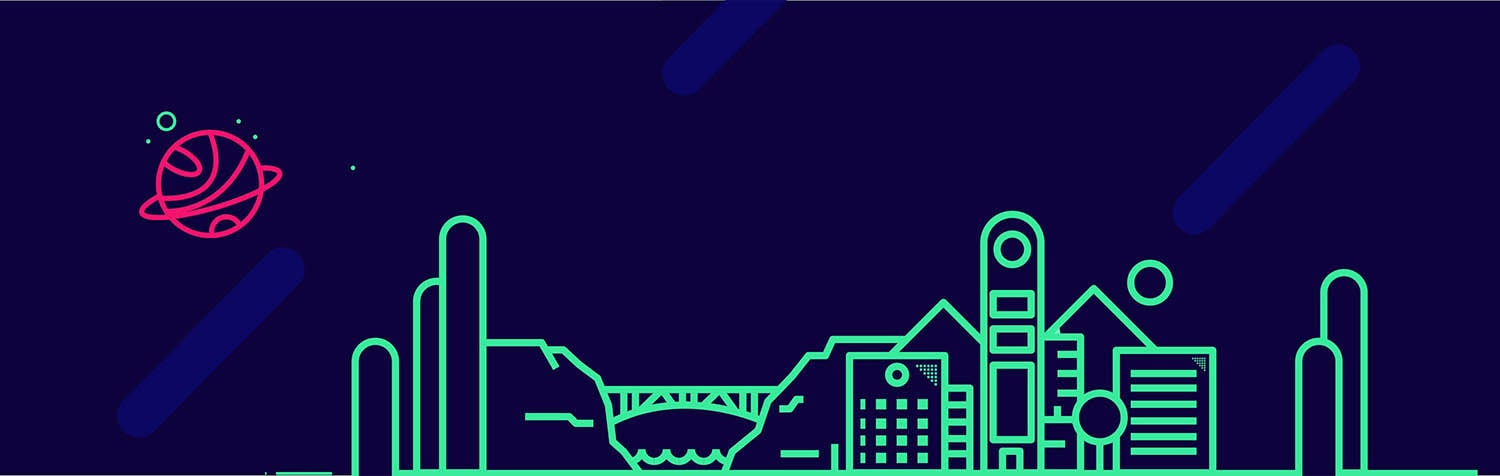
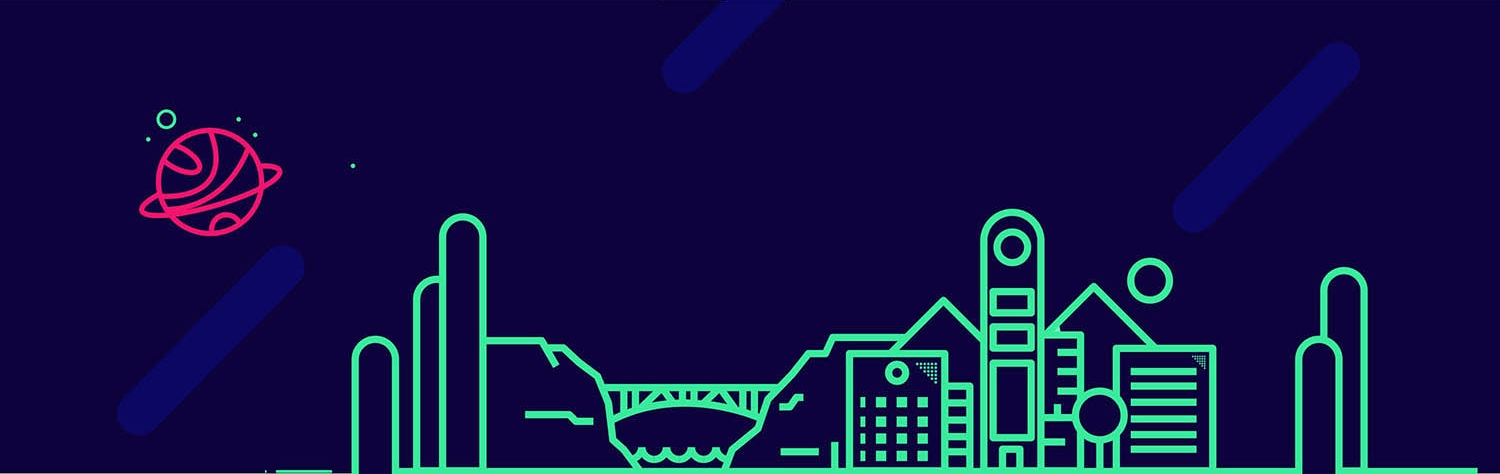
add remaining animations

diff --git a/app/retail/templates/index.html b/app/retail/templates/index.html
@@ -84,14 +84,20 @@
                           <path d="M49,0 L0,28.24968 L0,84.7498933 L49,113 L98,84.7498933 L98,28.24968 L49,0 Z M1.4429862,83.9182674 L1.4429862,29.0813059 L49,1.66367855 L96.5574411,29.0813059 L96.5574411,83.9182674 L49,111.336321 L1.4429862,83.9182674 Z" id="Fill-1" stroke="#05B66A" stroke-width="2" fill="#49B977"></path>
                           <polygon id="Fill-2" stroke="#EBC629" stroke-width="2" fill="#EBC629" points="7 31.7726502 7 58 8.23706649 58 8.23706649 32.472727 49 9.39973162 89.7629335 32.472727 89.7629335 37.6348967 91 37.6348967 91 31.7726502 49 8"></polygon>
                           <polygon id="Fill-3" stroke="#EBC629" stroke-width="2" fill="#EBC629" points="88.778412 78.6333954 48.5255139 101.606386 15.442326 82.7251666 13 82.7251666 48.5255139 103 90 79.3299922 90 54 88.778412 54"></polygon>
-                          <path d="M50,78 C49.448,78 49,77.552 49,77 L49,33 C49,32.448 49.448,32 50,32 C50.552,32 51,32.448 51,33 L51,77 C51,77.552 50.552,78 50,78" id="Fill-4232" fill="#000000"></path>
                           <path d="M72,56 L28,56 C27.448,56 27,55.552 27,55 C27,54.448 27.448,54 28,54 L72,54 C72.552,54 73,54.448 73,55 C73,55.552 72.552,56 72,56" id="Fill-4233" fill="#000000"></path>
                           <path d="M68,44 L32,44 C31.448,44 31,43.552 31,43 C31,42.448 31.448,42 32,42 L68,42 C68.552,42 69,42.448 69,43 C69,43.552 68.552,44 68,44" id="Fill-4234" fill="#000000"></path>
-                          <path d="M68,68 L50,68 C49.448,68 49,67.552 49,67 C49,66.448 49.448,66 50,66 L68,66 C68.552,66 69,66.448 69,67 C69,67.552 68.552,68 68,68" id="Fill-4235" fill="#000000"></path>
-                          <path d="M50,78 C49.454,78 48.918,77.96 48.382,77.922 C47.832,77.88 47.368,77.398 47.408,76.848 C47.448,76.296 47.838,75.866 48.428,75.92 C48.428,75.92 48.53,75.926 48.53,75.928 C49.016,75.962 49.504,76 50,76 C61.58,76 71,66.58 71,55 C71,43.42 61.58,34 50,34 C38.42,34 29,43.42 29,55 C29,55.552 28.552,56 28,56 C27.448,56 27,55.552 27,55 C27,42.318 37.318,32 50,32 C62.682,32 73,42.318 73,55 C73,67.682 62.682,78 50,78" id="Fill-4236" fill="#000000"></path>
+
+                          <ellipse stroke="black" stroke-width="2" rx="22" ry="22" cx="50" cy="55"/>
+                          <path class="globe-longitude" d="M50,33 A1,1 0 0,0 50,77" stroke="black" stroke-width="2" />
+                          <path id="long-1" class="globe-longitude" d="M50,33 A1,1 0 0,0 50,77" stroke="black" stroke-width="2" />
+                          <path id="long-2" class="globe-longitude" d="M50,33 A1,1 0 0,0 50,77" stroke="black" stroke-width="2" />
+
+                          <line y1="68" y2="68" x1="30" x2="68" stroke-width="2" stroke="black"/>
+                          <line id="globe-center-fill" y1="33" y2="78" x1="50" x2="50" stroke-width="2" stroke="black" />
+                          <path d="M27.062,61.0500013 C32.806,63.0300011 29.538,62.4940012 27.062,61.0500013 M37.818,80 C35.366,80 33.06,79.0440001 31.326,77.3100002 C27.366,73.3500004 25,66.5040009 25,59.0000014 C28.75,60.3360013 32.482,60.9500013 36.09,61.5440012 C39.438,62.0940012 42.598,62.6140012 44.31,64.3260011 C46.044,66.0600009 47,68.3660008 47,70.8180006 C47,73.2700005 46.044,75.5760003 44.31,77.3100002 C42.576,79.0440001 40.272,80 37.818,80 L37.818,80 Z" id="Fill-4237" fill="#FFFFFF"></path>
                           <path d="M27.062,61.0500013 C27.44,67.2080009 29.502,72.6580005 32.74,75.8960003 C35.456,78.6100001 40.182,78.6100001 42.896,75.8960003 C44.254,74.5400004 45,72.7360005 45,70.8180006 C45,68.9000007 44.254,67.0960009 42.896,65.740001 C41.638,64.484001 38.788,64.0140011 35.766,63.5180011 C32.806,63.0300011 29.538,62.4940012 27.062,61.0500013 L27.062,61.0500013 Z M37.818,80 C35.366,80 33.06,79.0440001 31.326,77.3100002 C27.366,73.3500004 25,66.5040009 25,59.0000014 C25,58.5960014 25.244,58.2300015 25.618,58.0760015 C25.99,57.9220015 26.422,58.0060015 26.708,58.2920015 C28.75,60.3360013 32.482,60.9500013 36.09,61.5440012 C39.438,62.0940012 42.598,62.6140012 44.31,64.3260011 C46.044,66.0600009 47,68.3660008 47,70.8180006 C47,73.2700005 46.044,75.5760003 44.31,77.3100002 C42.576,79.0440001 40.272,80 37.818,80 L37.818,80 Z" id="Fill-4237" fill="#000000"></path>
-                          <path d="M50,78 C49.444,78 48.87,77.924 48.196,77.762 C47.658,77.632 47.328,77.092 47.458,76.556 C47.586,76.02 48.106,75.686 48.664,75.818 C49.18,75.942 49.606,76 50,76 C55.962,76 61,66.382 61,55 C61,43.618 55.962,34 50,34 C44.038,34 39,43.618 39,55 C39,56.202 39.062,57.432 39.192,58.762 C39.244,59.312 38.842,59.8 38.292,59.852 C37.756,59.904 37.254,59.504 37.2,58.954 C37.064,57.56 37,56.266 37,55 C37,42.102 42.71,32 50,32 C57.29,32 63,42.102 63,55 C63,67.898 57.29,78 50,78" id="Fill-4238" fill="#000000"></path>
                           <path d="M44.0022744,77 C43.956272,77 43.9082695,76.9979998 43.8622671,76.9899988 C41.0141187,76.5919504 34.5877838,70.881257 33.3277181,69.7411185 C32.9196968,69.3690734 32.8876951,68.7369966 33.2597145,68.3289471 C33.6317339,67.916897 34.2637669,67.8908939 34.6717881,68.2569383 C37.4099308,70.7392397 42.4041911,74.7677289 44.1382815,75.0097583 C44.68631,75.0857675 45.0663298,75.5898288 44.9903259,76.1378953 C44.9203222,76.637956 44.4922999,77 44.0022744,77" id="Fill-4239" fill="#000000"></path>
+                          <path d="M50,78 C49.454,78 48.918,77.96 48.382,77.922 C47.832,77.88 47.368,77.398 47.408,76.848 C47.448,76.296 47.838,75.866 48.428,75.92 C48.428,75.92 48.53,75.926 48.53,75.928 C49.016,75.962 49.504,76 50,76 C61.58,76 71,66.58 71,55 C71,43.42 61.58,34 50,34 C38.42,34 29,43.42 29,55 C29,55.552 28.552,56 28,56 C27.448,56 27,55.552 27,55 C27,42.318 37.318,32 50,32 C62.682,32 73,42.318 73,55 C73,67.682 62.682,78 50,78" id="Fill-4236" fill="#000000"></path>
                       </g>
                   </g>
               </g>
@@ -118,9 +124,11 @@
                           <polygon id="Fill-2" stroke="#EBC629" stroke-width="2" fill="#EBC629" points="7 31.7726502 7 58 8.23706649 58 8.23706649 32.472727 49 9.39973162 89.7629335 32.472727 89.7629335 37.6348967 91 37.6348967 91 31.7726502 49 8"></polygon>
                           <polygon id="Fill-3" stroke="#EBC629" stroke-width="2" fill="#EBC629" points="88.778412 78.6333954 48.5255139 101.606386 15.442326 82.7251666 13 82.7251666 48.5255139 103 90 79.3299922 90 54 88.778412 54"></polygon>
                           <path d="M39.4172059,80.625 L55.5827941,80.625 L59.4066719,66.375 L35.5933281,66.375 L39.4172059,80.625 L39.4172059,80.625 Z M56.4238688,83 L38.5761312,83 C38.0763946,83 37.641356,82.6485 37.505267,82.137875 L33.0433326,65.512875 C32.947401,65.15425 33.0120991,64.7695 33.2240409,64.472625 C33.4337519,64.17575 33.763935,64 34.1141969,64 L60.8858031,64 C61.236065,64 61.5662481,64.17575 61.7759591,64.472625 C61.9879009,64.7695 62.052599,65.15425 61.9566674,65.512875 L57.494733,82.137875 C57.358644,82.6485 56.9236054,83 56.4238688,83 L56.4238688,83 Z" id="Fill-4408" fill="#000000"></path>
-                          <path d="M67.5345202,36.4369091 C60.5366534,36.8812727 54.3433481,39.3181818 50.6637293,43.1472727 C49.1205167,44.7498182 48.2727726,46.8818182 48.2727726,49.1485455 C48.2727726,51.4152727 49.1205167,53.5472727 50.6637293,55.1498182 C53.7478817,58.3572727 59.1184433,58.3572727 62.2048685,55.1498182 C63.6344424,53.6654545 64.1662712,50.2925455 64.7299188,46.7234545 C65.2822026,43.2276364 65.8958511,39.3607273 67.5345202,36.4369091 L67.5345202,36.4369091 Z M56.4342989,60 C53.645607,60 51.0273729,58.8701818 49.0568791,56.8209091 C47.0863853,54.7716364 46,52.0463636 46,49.1485455 C46,46.2507273 47.0863853,43.5254545 49.0568791,41.4761818 C53.5569688,36.7961818 61.3366694,34 69.8641121,34 C70.3232121,34 70.7391295,34.2883636 70.914133,34.7303636 C71.0891365,35.1723636 70.9914073,35.6781818 70.6686736,36.0185455 C68.3459,38.4318182 67.645886,42.8423636 66.9754181,47.1063636 C66.3481329,51.0630909 65.757212,54.7976364 63.8117187,56.8209091 C61.8412249,58.8701818 59.2207181,60 56.4342989,60 L56.4342989,60 Z" id="Fill-4409" fill="#000000"></path>
-                          <path d="M32.1010427,34.4574096 C32.6125439,35.8039673 32.8466207,37.3465578 33.0655259,38.7701284 C33.3082723,40.3640607 33.5596881,42.0116686 34.1167043,42.6114352 C35.427968,44.0186698 37.5498311,44.0163361 38.85676,42.6114352 C40.1593542,41.2065344 40.1593542,38.9171529 38.85676,37.512252 C37.3569344,35.8973162 34.9142994,34.8121354 32.1010427,34.4574096 L32.1010427,34.4574096 Z M36.4856485,46 C35.0746854,46 33.6593875,45.4212369 32.584368,44.2613769 C31.5331897,43.1318553 31.2384263,41.1971995 30.9263238,39.1481914 C30.6185561,37.134189 30.3021189,35.0525088 29.3159619,33.9929988 C29.0081943,33.6569428 28.914997,33.1575263 29.0818851,32.7211202 C29.2487732,32.2847141 29.6454034,32 30.0832138,32 C34.3529485,32 38.1090146,33.4072345 40.3890963,35.8623104 C42.5369679,38.1773629 42.5369679,41.9463244 40.3890963,44.2613769 C39.3140768,45.4189032 37.8987789,46 36.4856485,46 L36.4856485,46 Z" id="Fill-4410" fill="#000000"></path>
-                          <path d="M46.9663229,66 C46.4674949,66 46.0299266,65.6512961 45.9074074,65.148619 C44.6712768,60.1535486 40.9038131,46.606175 38.3199719,43.9320235 C37.8933427,43.4904828 37.8933427,42.7749605 38.3199719,42.3311555 C38.746601,41.8896148 39.4401469,41.8896148 39.8667761,42.3311555 C42.4440538,44.998514 45.42827,54.909404 46.9903891,60.6245253 C48.3818565,56.4400783 51.335443,49.6879024 57.1310361,43.6874779 C57.5598531,43.2459372 58.2512111,43.2459372 58.6800281,43.6874779 C59.1066573,44.1312829 59.1066573,44.8468052 58.6800281,45.2906102 C50.1277543,54.1395382 48.0602438,64.9697384 48.0405532,65.0784254 C47.9442882,65.5992169 47.5132833,65.9818855 47.0013283,66 L46.9663229,66" id="Fill-4411" fill="#000000"></path>
+                          <g id="pot-leaves">
+                            <path d="M67.5345202,36.4369091 C60.5366534,36.8812727 54.3433481,39.3181818 50.6637293,43.1472727 C49.1205167,44.7498182 48.2727726,46.8818182 48.2727726,49.1485455 C48.2727726,51.4152727 49.1205167,53.5472727 50.6637293,55.1498182 C53.7478817,58.3572727 59.1184433,58.3572727 62.2048685,55.1498182 C63.6344424,53.6654545 64.1662712,50.2925455 64.7299188,46.7234545 C65.2822026,43.2276364 65.8958511,39.3607273 67.5345202,36.4369091 L67.5345202,36.4369091 Z M56.4342989,60 C53.645607,60 51.0273729,58.8701818 49.0568791,56.8209091 C47.0863853,54.7716364 46,52.0463636 46,49.1485455 C46,46.2507273 47.0863853,43.5254545 49.0568791,41.4761818 C53.5569688,36.7961818 61.3366694,34 69.8641121,34 C70.3232121,34 70.7391295,34.2883636 70.914133,34.7303636 C71.0891365,35.1723636 70.9914073,35.6781818 70.6686736,36.0185455 C68.3459,38.4318182 67.645886,42.8423636 66.9754181,47.1063636 C66.3481329,51.0630909 65.757212,54.7976364 63.8117187,56.8209091 C61.8412249,58.8701818 59.2207181,60 56.4342989,60 L56.4342989,60 Z" id="Fill-4409" fill="#000000"></path>
+                            <path d="M32.1010427,34.4574096 C32.6125439,35.8039673 32.8466207,37.3465578 33.0655259,38.7701284 C33.3082723,40.3640607 33.5596881,42.0116686 34.1167043,42.6114352 C35.427968,44.0186698 37.5498311,44.0163361 38.85676,42.6114352 C40.1593542,41.2065344 40.1593542,38.9171529 38.85676,37.512252 C37.3569344,35.8973162 34.9142994,34.8121354 32.1010427,34.4574096 L32.1010427,34.4574096 Z M36.4856485,46 C35.0746854,46 33.6593875,45.4212369 32.584368,44.2613769 C31.5331897,43.1318553 31.2384263,41.1971995 30.9263238,39.1481914 C30.6185561,37.134189 30.3021189,35.0525088 29.3159619,33.9929988 C29.0081943,33.6569428 28.914997,33.1575263 29.0818851,32.7211202 C29.2487732,32.2847141 29.6454034,32 30.0832138,32 C34.3529485,32 38.1090146,33.4072345 40.3890963,35.8623104 C42.5369679,38.1773629 42.5369679,41.9463244 40.3890963,44.2613769 C39.3140768,45.4189032 37.8987789,46 36.4856485,46 L36.4856485,46 Z" id="Fill-4410" fill="#000000"></path>
+                            <path d="M46.9663229,66 C46.4674949,66 46.0299266,65.6512961 45.9074074,65.148619 C44.6712768,60.1535486 40.9038131,46.606175 38.3199719,43.9320235 C37.8933427,43.4904828 37.8933427,42.7749605 38.3199719,42.3311555 C38.746601,41.8896148 39.4401469,41.8896148 39.8667761,42.3311555 C42.4440538,44.998514 45.42827,54.909404 46.9903891,60.6245253 C48.3818565,56.4400783 51.335443,49.6879024 57.1310361,43.6874779 C57.5598531,43.2459372 58.2512111,43.2459372 58.6800281,43.6874779 C59.1066573,44.1312829 59.1066573,44.8468052 58.6800281,45.2906102 C50.1277543,54.1395382 48.0602438,64.9697384 48.0405532,65.0784254 C47.9442882,65.5992169 47.5132833,65.9818855 47.0013283,66 L46.9663229,66" id="Fill-4411" fill="#000000"></path>
+                          </g>
                       </g>
                   </g>
               </g>
@@ -135,7 +143,7 @@
     </div>
 
     <div class="container-fluid p-5 tree_container">
-      <img src="/static/v2/images/gc-tree.png" alt="Gitcoin Tree" />
+      <img id="gc-tree" src="/static/v2/images/gc-tree.png" alt="Gitcoin Tree" />
     </div>
 
     <div class="container-fluid p-5 whatisit_container">
@@ -144,7 +152,7 @@
           <h1>{% trans "What is Gitcoin?" %}</h1>
         </div>
       </div>
-      <div class="row d-flex justify-content-center align-items-center whatisit">
+      <div class="row d-flex justify-content-center align-items-center whatisit mb-4">
         <div class="animatedParent col-6 col-md-5">
           <div class="animated fadeInLeftShort">
             <h3>{% trans "A Mission to Grow Open Source." %}</h3>

diff --git a/app/retail/templates/shared/footer.html b/app/retail/templates/shared/footer.html
@@ -16,54 +16,72 @@
 
 {% endcomment %}
 {% load i18n static %}
-    <div class="container-fluid footer ">
-        <div class="row" style="margin-top: 25px; ">
-            <div class="nav" style="margin:0px auto;">
-                <a class="nav-link" href="/ ">{% trans "Home" %}</a>
-                <a class="nav-link" href="{% url "mission" %}">{% trans "Mission" %}</a>
-                <a class="nav-link" href="{% url "about" %}">{% trans "About" %}</a>
-                <a class="nav-link" href="{% url "about" %}#jobs ">{% trans "Jobs" %}</a>
-                <a class="nav-link" href="{% url "explorer" %}">{% trans "Issue Explorer" %}</a>
-                <a class="nav-link hide_min_viewport" href="{% url "tools" %}">{% trans "Tools" %}</a>
-                <a class="nav-link" href="{% url "terms" %}" target="_blank" rel="noopener noreferrer">{% trans "Terms" %}</a>
-                <a class="nav-link" href="{% url "privacy" %}" target="_blank" rel="noopener noreferrer">{% trans "Privacy" %}</a>
-                <a class="nav-link" href="{% url "help" %}">{% trans "Help" %}</a>
-            </div>
-        </div>
-        <div class="row" style="margin-top: 5px; ">
-                <div class="nav" style="margin:0px auto;">
-                    <a class="nav-link" href="{% url "medium" %}">
-                        <img src="{% static "v2/images/social/medium.png" %}" alt="Medium">
-                    </a>
-                    <a class="nav-link" href="{% url "gitter" %}">
-                        <img src="{% static "v2/images/social/gitter.png" %}" alt="Gitter">
-                    </a>
-                    <a class="nav-link" href="{% url "github" %}">
-                        <img src="{% static "v2/images/social/github.png" %}" alt="Github">
-                    </a>
-                    <a class="nav-link hide_min_viewport" href="{% url "fb" %}">
-                        <img src="{% static "v2/images/social/facebook.png" %}" alt="Facebook">
-                    </a>
-                    <a class="nav-link" href="{% url "twitter" %}">
-                        <img src="{% static "v2/images/social/twitter.png" %}" alt="Twitter">
-                    </a>
-                    <a class="nav-link" href="{% url "reddit" %}">
-                        <img src="{% static "v2/images/social/reddit.png" %}" alt="Reddit">
-                    </a>
-                    <a class="nav-link" href="{% url "slack" %}">
-                        <img src="{% static "v2/images/social/slack.png" %}" alt="Slack">
-                    </a>
-                    <a class="nav-link" href="{% url "btctalk" %}">
-                        <img src="{% static "v2/images/bitcointalk.png" %}" alt="Bitcoin">
-                    </a>
-                    <a class="nav-link" href="mailto:founders@gitcoin.co">
-                        <img src="{% static "v2/images/social/mail.png" %}" alt="Mail">
-                    </a>
-                </div>
-            </div>
-        <div class="row">
-                <a href="https://media.consensys.net/gitcoin-joins-consensys-announces-pilot-projects-f5a0955de9d6" style="margin: 10px auto;" target="_blank" rel="noopener noreferrer">
-                    <img src="{% static "v2/images/consensys-logo-white-small.png" %}" style="filter:{% if request.path == '/ios' %}invert(100%);{%else%}none;{% endif %} width: 100px; height: 35px;"/>
-                </a>
-        </div>
+<div class="container-fluid footer p-0">
+  <div class="footer__main p-4">
+    <a class="navbar-brand text-center pt-0 pb-0" href="/">
+      {% if request.path == '/ios' %}
+        <img id="logo" src="{% static "v2/images/ios/gitcoin.svg" %}" data-hover="{% static "v2/images/ios/gitcoin_hover.gif" %}" height="50" />
+      {% else %}
+        <img id="logo" src="{% static "v2/images/logo_large.png" %}" data-hover="{% static "v2/images/logo_med_hover.gif" %}" width="150" height="50" />
+      {% endif %}
+    </a>
+    <div class="nav footer__social">
+      <a class="nav-link" href="{% url "medium" %}">
+        <img src="{% static "v2/images/social/medium.png" %}" alt="Medium">
+      </a>
+      <a class="nav-link" href="{% url "gitter" %}">
+        <img src="{% static "v2/images/social/gitter.png" %}" alt="Gitter">
+      </a>
+      <a class="nav-link" href="{% url "github" %}">
+        <img src="{% static "v2/images/social/github.png" %}" alt="Github">
+      </a>
+      <a class="nav-link hide_min_viewport" href="{% url "fb" %}">
+        <img src="{% static "v2/images/social/facebook.png" %}" alt="Facebook">
+      </a>
+      <a class="nav-link" href="{% url "twitter" %}">
+        <img src="{% static "v2/images/social/twitter.png" %}" alt="Twitter">
+      </a>
+      <a class="nav-link" href="{% url "reddit" %}">
+        <img src="{% static "v2/images/social/reddit.png" %}" alt="Reddit">
+      </a>
+      <a class="nav-link" href="{% url "slack" %}">
+        <img src="{% static "v2/images/social/slack.png" %}" alt="Slack">
+      </a>
+      <a class="nav-link" href="{% url "btctalk" %}">
+        <img src="{% static "v2/images/bitcointalk.png" %}" alt="Bitcoin">
+      </a>
+      <a class="nav-link" href="mailto:founders@gitcoin.co">
+        <img src="{% static "v2/images/social/mail.png" %}" alt="Mail">
+      </a>
     </div>
+    <div class="sitenav__product">
+      Product
+      <a href="">How it Works</a>
+      <a href="/explorer">Issue Explorer</a>
+      <a href="">Tools</a>
+      <a href="">FAQ</a>
+    </div>
+    <div>
+      Business
+    </div>
+    <div>
+      Community
+    </div>
+    <!-- <div class="nav footer__sitenav">
+      <a class="nav-link" href="/ ">{% trans "Home" %}</a>
+      <a class="nav-link" href="{% url "mission" %}">{% trans "Mission" %}</a>
+      <a class="nav-link" href="{% url "about" %}">{% trans "About" %}</a>
+      <a class="nav-link" href="{% url "about" %}#jobs ">{% trans "Jobs" %}</a>
+      <a class="nav-link" href="{% url "explorer" %}">{% trans "Issue Explorer" %}</a>
+      <a class="nav-link hide_min_viewport" href="{% url "tools" %}">{% trans "Tools" %}</a>
+      <a class="nav-link" href="{% url "terms" %}" target="_blank" rel="noopener noreferrer">{% trans "Terms" %}</a>
+      <a class="nav-link" href="{% url "privacy" %}" target="_blank" rel="noopener noreferrer">{% trans "Privacy" %}</a>
+      <a class="nav-link" href="{% url "help" %}">{% trans "Help" %}</a>
+    </div> -->
+  </div>
+  <div class="row footer__consensys">
+    <a href="https://media.consensys.net/gitcoin-joins-consensys-announces-pilot-projects-f5a0955de9d6" style="margin: 10px auto;" target="_blank" rel="noopener noreferrer">
+      <img src="{% static "v2/images/consensys-logo-white-small.png" %}" style="filter:{% if request.path == '/ios' %}invert(100%);{%else%}none;{% endif %} width: 100px; height: 35px;"/>
+    </a>
+  </div>
+</div>

diff --git a/app/assets/v2/css/landing_page.css b/app/assets/v2/css/landing_page.css
@@ -20,6 +20,9 @@
   right: calc(5vw - 50px);
   max-width: 30vw;
 }
+#gc-tree {
+  position: relative;
+}
 
 .howworks_container {
   background-color: #F9F9F9;
@@ -178,6 +181,7 @@
 
 .tree_container {
   text-align: center;
+  overflow: hidden;
 }
 
 .whatisit {
@@ -194,8 +198,28 @@
 
 /* Landing Page Animations */
 #WindmillBlades {
-  animation: rotate-blades 4s linear infinite;
+  animation: rotate-blades 6s linear infinite;
   transform-origin: 48.5px 56px;
+}
+.globe-longitude {
+  animation: rotate-globe 6s linear infinite;
+  transform-origin: center;
+}
+#long-1 {
+  animation-delay: 2s;
+}
+#long-2 {
+  animation-delay: 4s;
+}
+#globe-center-fill {
+  animation: globe-center-fill 2s linear infinite;
+  transform-origin: center;
+  animation-delay: 2s;
+  transform: scaleX(0);
+}
+#pot-leaves {
+  animation: swaying-leaves 6s ease-in-out infinite;
+  transform-origin: center 60%;
 }
 
 .navbar {
@@ -227,6 +251,30 @@
   }
   to {
     transform: rotate(360deg) translate(27px, 28px);
+  }
+}
+@keyframes rotate-globe {
+  from {
+    transform: rotateY(0);
+  }
+  to {
+    transform: rotateY(180deg);
+  }
+}
+@keyframes globe-center-fill {
+  0%, 41%, 59%, 100% {
+    transform: scaleX(0);
+  }
+  50% {
+    transform: scaleX(0.5);
+  }
+}
+@keyframes swaying-leaves {
+  0%, 100% {
+    transform: rotate(-10deg);
+  }
+  50% {
+    transform: rotate(10deg);
   }
 }
 

diff --git a/app/assets/v2/css/gitcoin.css b/app/assets/v2/css/gitcoin.css
@@ -197,6 +197,21 @@ h4,
 .footer .nav-link {
   font-size: 0.8rem !important;
 }
+.footer .nav-link:hover {
+  border-radius: 2px;
+  background-color: rgba(255, 255, 255, 0.2);
+}
+
+.footer .nav-link img {
+  width: 25px;
+  height: 25px;
+  filter: invert(100%);
+}
+.footer__consensys {
+  border-top: 1px solid var(--gc-green);
+  background: black;
+}
+
 
 .nav-link:visited {
   color: #eff4ee;
@@ -372,15 +387,22 @@ div.button-pink {
   letter-spacing: 0.1em;
 }
 
-.footer {
-  overflow: hidden;
-  height: 300px;
+.footer__main {
   background-image: url('/static/v2/images/footer.jpg');
   background-color: #0d023b;
   background-size: contain;
   background-position: bottom;
   background-repeat: no-repeat;
-  z-index: 5;
+  display: grid;
+  grid-template-columns: 2fr 1fr 1fr 1fr 1fr;
+  grid-auto-rows: min-content;
+  align-items: center;
+}
+.footer__social {
+  grid-column: span 4;
+}
+.sitenav__product {
+  grid-column: 2;
 }
 
 .lil-white-button {

diff --git a/app/assets/v2/js/landing_page.js b/app/assets/v2/js/landing_page.js
@@ -51,14 +51,19 @@ $(document).ready(function() {
   navbar.mousemove(moveBackground);
   header.mousemove(moveBackground);
   let robotContainerPos = $('.case-studies-container').position().top;
+  let treeContainerPos = $('.tree_container').position().top;
+  const $gcRobot = $('#gc-robot');
+  const $gcTree = $('#gc-tree');
 
   window.addEventListener('resize', function(e) {
     robotContainerPos = $('.case-studies-container').position().top;
+    treeContainerPos = $('.tree_container').position().top;
   });
 
   window.addEventListener('scroll', (e) => {
     moveBackground(e);
-    $('#gc-robot').css('top', (-window.scrollY + robotContainerPos - 100) / 2 + 'px');
+    $gcRobot.css('top', (-window.scrollY + robotContainerPos - 100) / 2 + 'px');
+    $gcTree.css('top', (window.scrollY - treeContainerPos + 100) / 6 + 'px');
   }, { passive: true });
   moveBackground({});
 

diff --git a/app/assets/v2/css/base.css b/app/assets/v2/css/base.css
@@ -52,17 +52,6 @@ span {
   margin-right: 3px;
 }
 
-.footer .nav-link:hover {
-  border-radius: 2px;
-  background-color: rgba(255, 255, 255, 0.2);
-}
-
-.footer img {
-  width: 25px;
-  height: 25px;
-  filter: invert(100%);
-}
-
 .modal {
   z-index: 9;
   border-radius: 4px !important;
